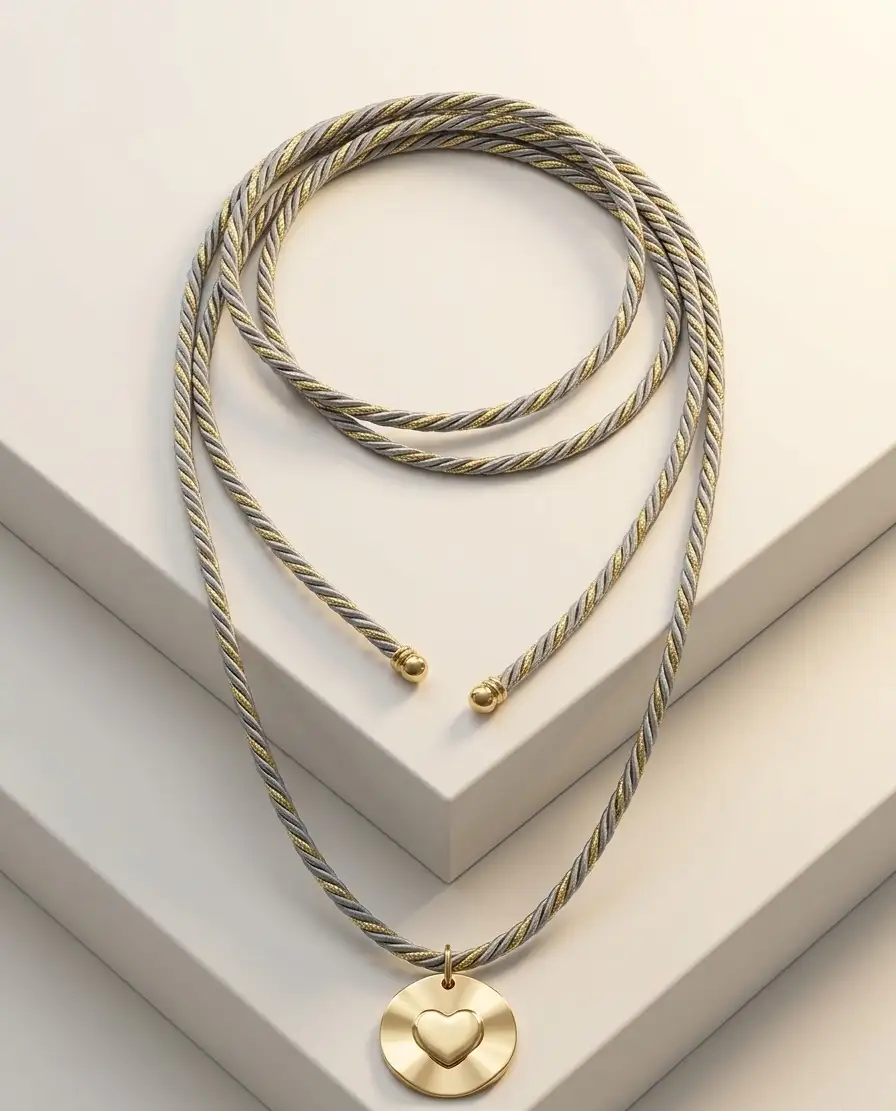
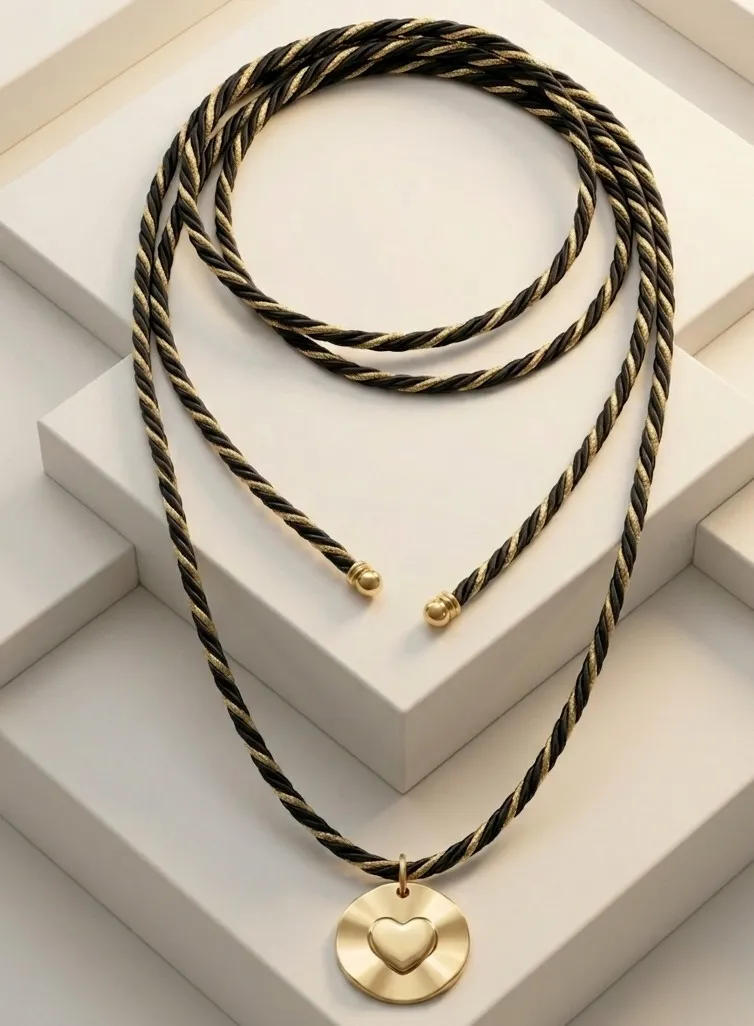
feat: add preto_dourado color option to ProductsSection and colorsCatalog

diff --git a/src/data/colorsCatalog.js b/src/data/colorsCatalog.js
@@ -332,5 +332,12 @@ export const COLORS_CATALOG = {
         name: 'Areia e Caramelo Mesclada',
         imageSrc: '/assets/cores/areia_caramelo_mesclada.webp',
 
+    },
+
+    preto_dourado: {
+        id: 'preto_dourado',
+        name: 'Preto e Dourado',
+        imageSrc: '/assets/cores/preto_dourado.svg',
     }
 }
+

diff --git a/src/components/ProductsSection.jsx b/src/components/ProductsSection.jsx
@@ -47,7 +47,7 @@ const ProductsSection = () => {
 
                 {/* Produto Fluxo */}
                 <ProductCard
-                    colorOptions={['prata_e_dourado']}
+                    colorOptions={['prata_e_dourado', 'preto_dourado']}
                     name="Colar Fluxo"
                     description={"Um colar, infinitas versões de você"}
                     price=" R$ 45,00"